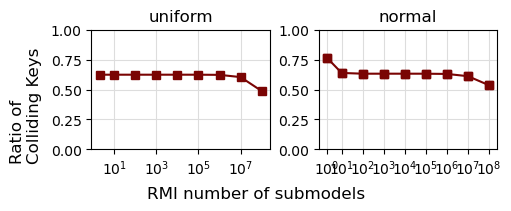
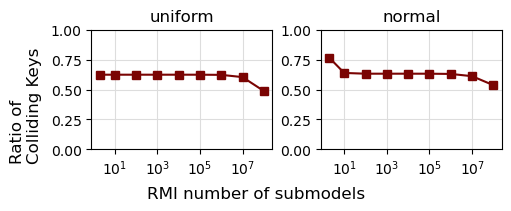
Fix figures once and for all

diff --git a/scripts/print_figures.py b/scripts/print_figures.py
@@ -162,7 +162,7 @@ def collisions(df):
         if df.empty:
             return
     # Group by
-    df = groupby_helper(df, ['dataset_size','dataset_name','label','function'], ['collisions','tot_time_s'])
+    df = groupby_helper(df, ['dataset_name','label','function'], ['dataset_size','collisions','tot_time_s'])
     df['throughput_M'] = df.apply(lambda x : x['dataset_size']/(x['tot_time_s']*10**6), axis=1)
     df = df.sort_values(by='throughput_M')
     
@@ -219,7 +219,7 @@ def collisions_rmi(df):
         if df.empty:
             return
     # Group by
-    df = groupby_helper(df, ['dataset_size','dataset_name','label','function'], ['collisions','tot_time_s'])
+    df = groupby_helper(df, ['dataset_name','label','function'], ['dataset_size','collisions','tot_time_s'])
     df["models"] = df["label"].apply(lambda x : get_rmi_models(x))
     df = df.sort_values(by='models')
 
@@ -240,7 +240,7 @@ def collisions_rmi(df):
     uni_tick_labels = [f"$10^{int(tick)}$" for tick in uni_ticks]
     normal_tick_labels = [f"$10^{int(tick)}$" for tick in normal_ticks]
     axes[0].set_xticks(uni_ticks[1::2], uni_tick_labels[1::2])
-    axes[1].set_xticks(normal_ticks[1::2], normal_tick_labels[1::2])    
+    axes[1].set_xticks(normal_ticks[1::2], normal_tick_labels[1::2])
     
     axes[0].set_title('uniform')
     axes[1].set_title('normal')
@@ -290,7 +290,7 @@ def probe(df):
     # remove failed experiments
     df = df[df["insert_fail_message"]=='']
     # Group by
-    df = groupby_helper(df, ['dataset_size','dataset_name','label','function','load_factor_%'], ['probe_elem_count','tot_time_probe_s'])
+    df = groupby_helper(df, ['dataset_name','label','function','load_factor_%'], ['dataset_size','probe_elem_count','tot_time_probe_s'])
     df['throughput_M'] = df.apply(lambda x : x['probe_elem_count']/(x['tot_time_probe_s']*10**6), axis=1)
     df['table_type'] = df['label'].apply(lambda x : get_table_type(x))
     df = df.sort_values(by='load_factor_%')
@@ -375,7 +375,7 @@ def insert(df):
     # remove failed experiments
     df = df[df["insert_fail_message"]=='']
     # Group by
-    df = groupby_helper(df, ['dataset_size','dataset_name','label','function','load_factor_%'], ['insert_elem_count','tot_time_insert_s'])
+    df = groupby_helper(df, ['dataset_name','label','function','load_factor_%'], ['dataset_size','insert_elem_count','tot_time_insert_s'])
     df['throughput_M'] = df.apply(lambda x : x['insert_elem_count']/(x['tot_time_insert_s']*10**6), axis=1)
     df['table_type'] = df['label'].apply(lambda x : get_table_type(x))
     df = df.sort_values(by='load_factor_%')
@@ -486,7 +486,7 @@ def distribution(df):
     if df.empty:
         return
     # Group by
-    df = groupby_helper(df, ['dataset_size','dataset_name','label','function','load_factor_%'], ['collisions','tot_time_s'])
+    df = groupby_helper(df, ['dataset_name','label','function','load_factor_%'], ['dataset_size','collisions','tot_time_s'])
     df = df.sort_values(by='load_factor_%')
     fig = plt.figure(figsize=(3, 2))
     datasets = df['dataset_name'].unique()
@@ -580,7 +580,7 @@ def point_range(df):
     # remove failed experiments
     df = df[df["insert_fail_message"]=='']
     # Group by
-    df = groupby_helper(df, ['dataset_size','dataset_name','label','function','range_size','point_query_%'], ['probe_elem_count','tot_time_probe_s'])
+    df = groupby_helper(df, ['dataset_name','label','function','range_size','point_query_%'], ['dataset_size','probe_elem_count','tot_time_probe_s'])
     df['throughput_M'] = df.apply(lambda x : x['probe_elem_count']/(x['tot_time_probe_s']*10**6), axis=1)
     df['struct'] = df['label'].apply(lambda x : get_struct_type(x))
 
